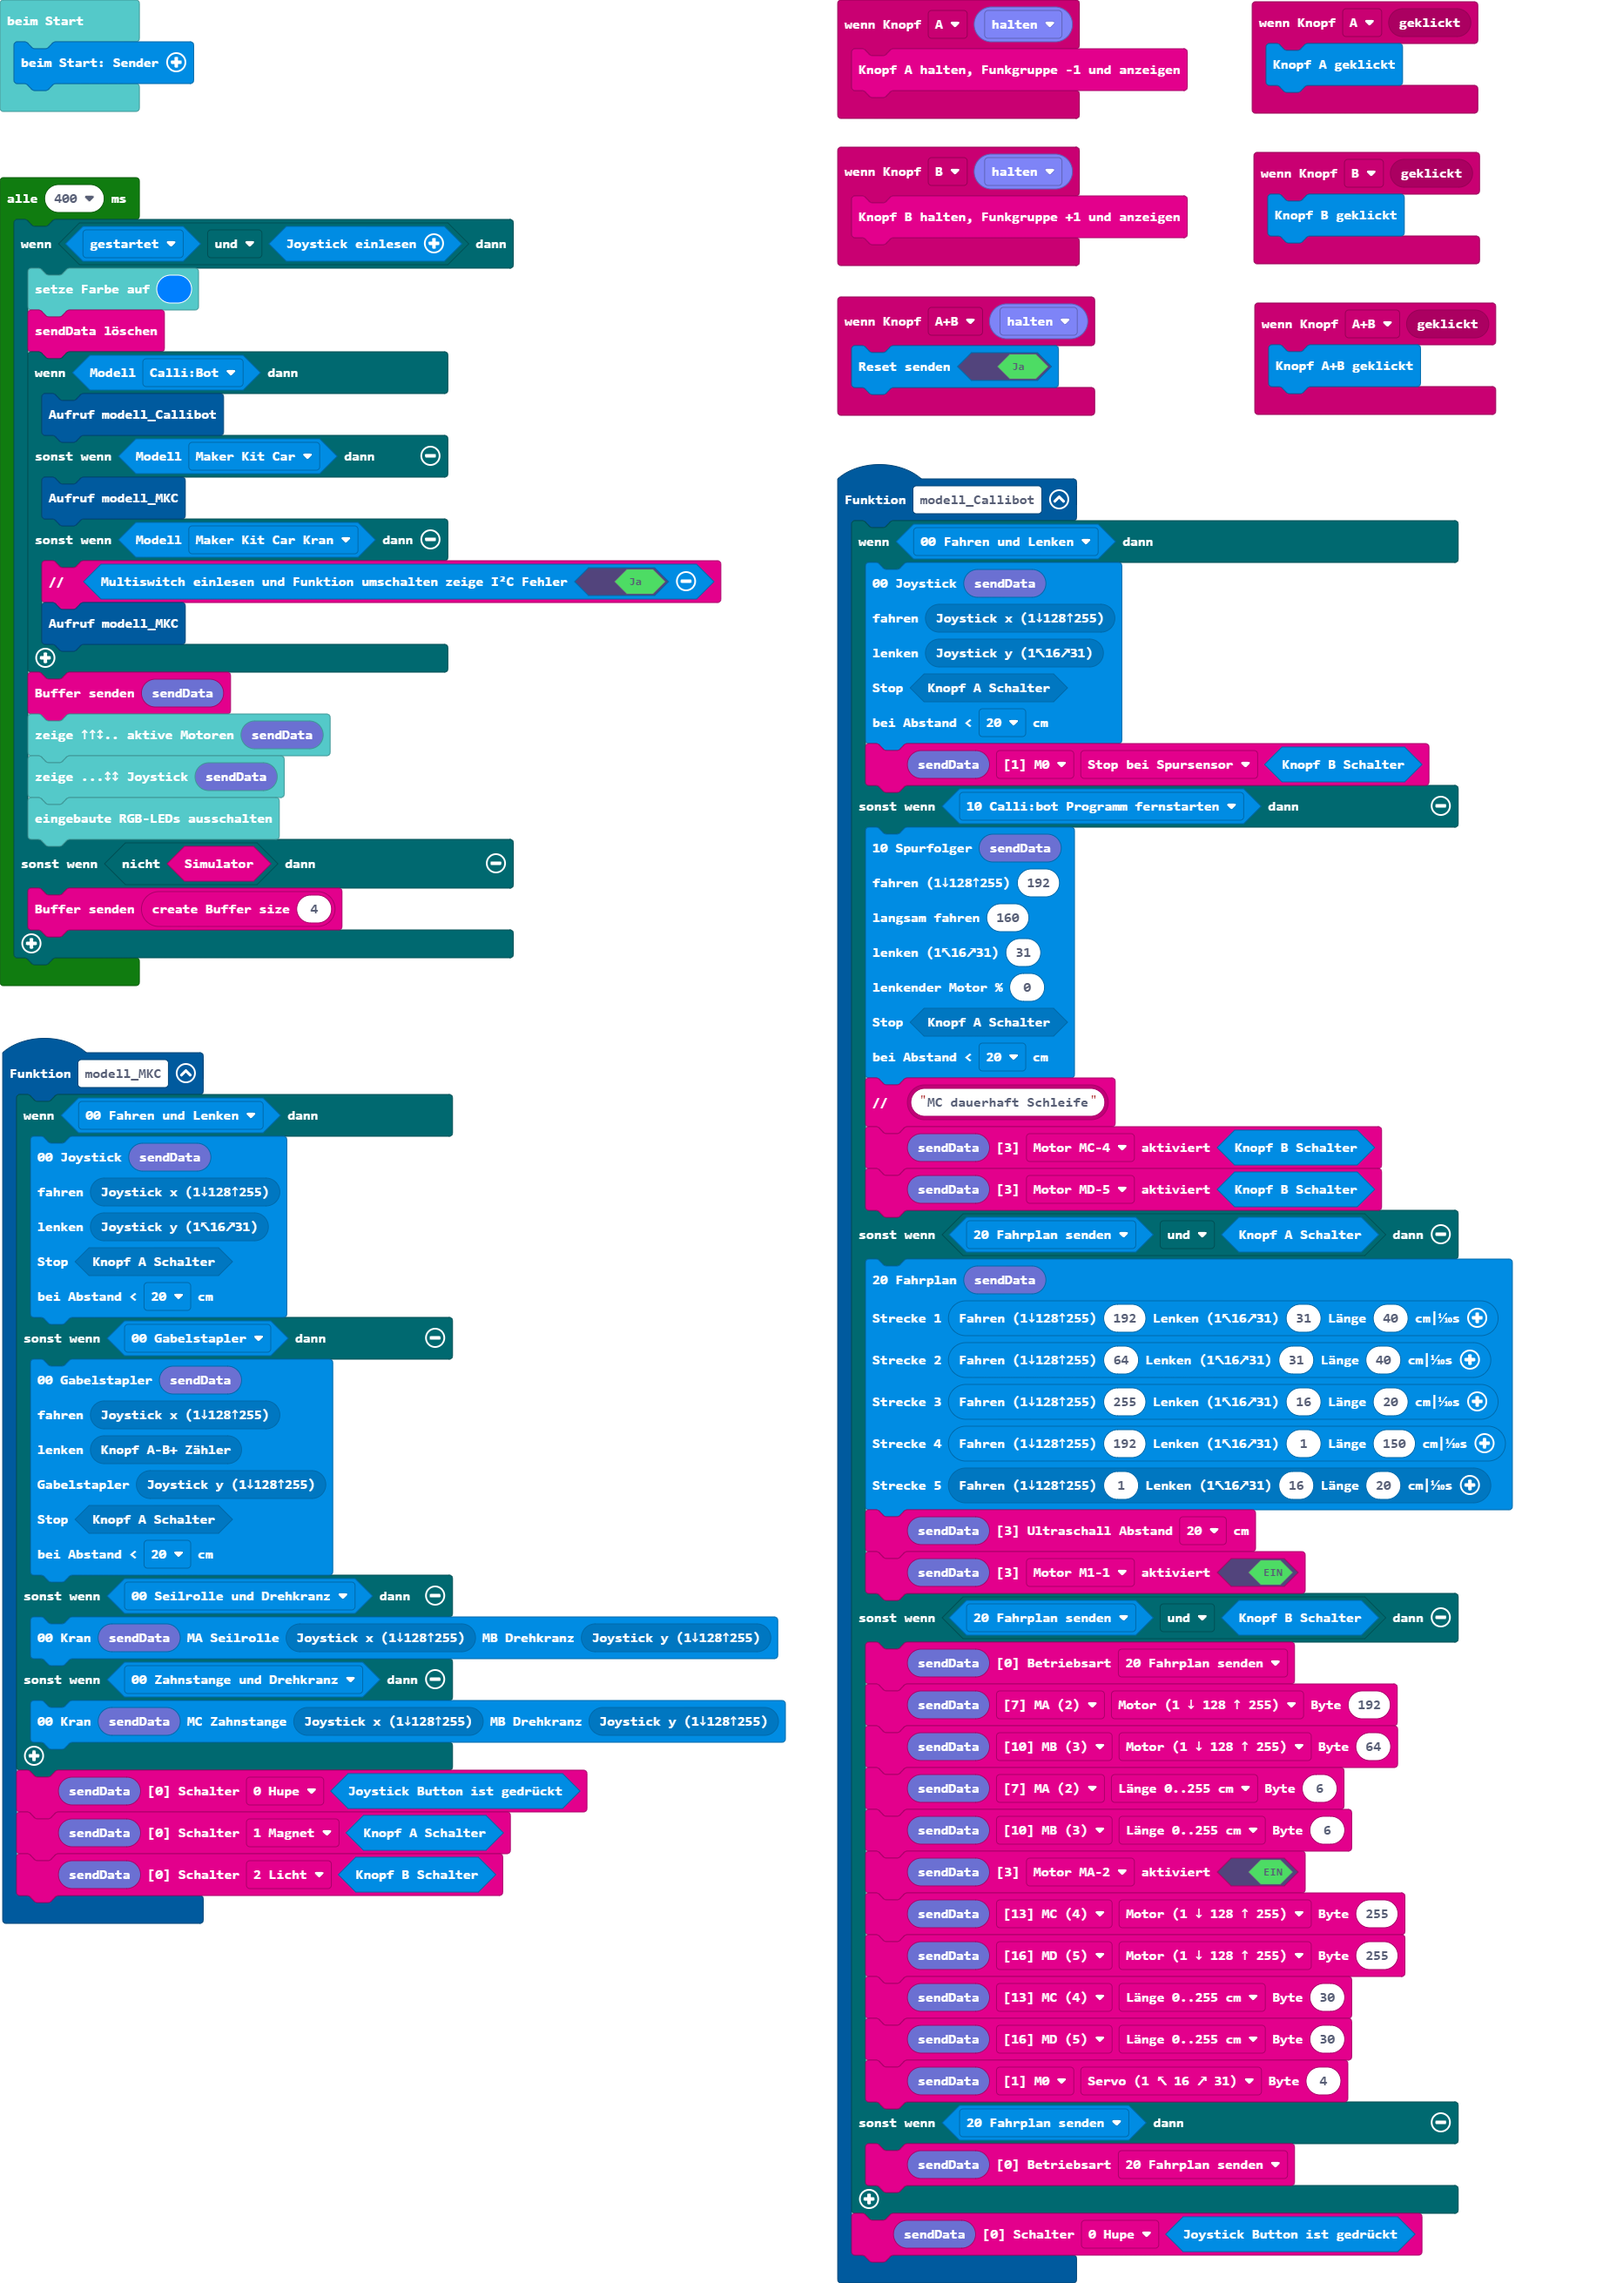
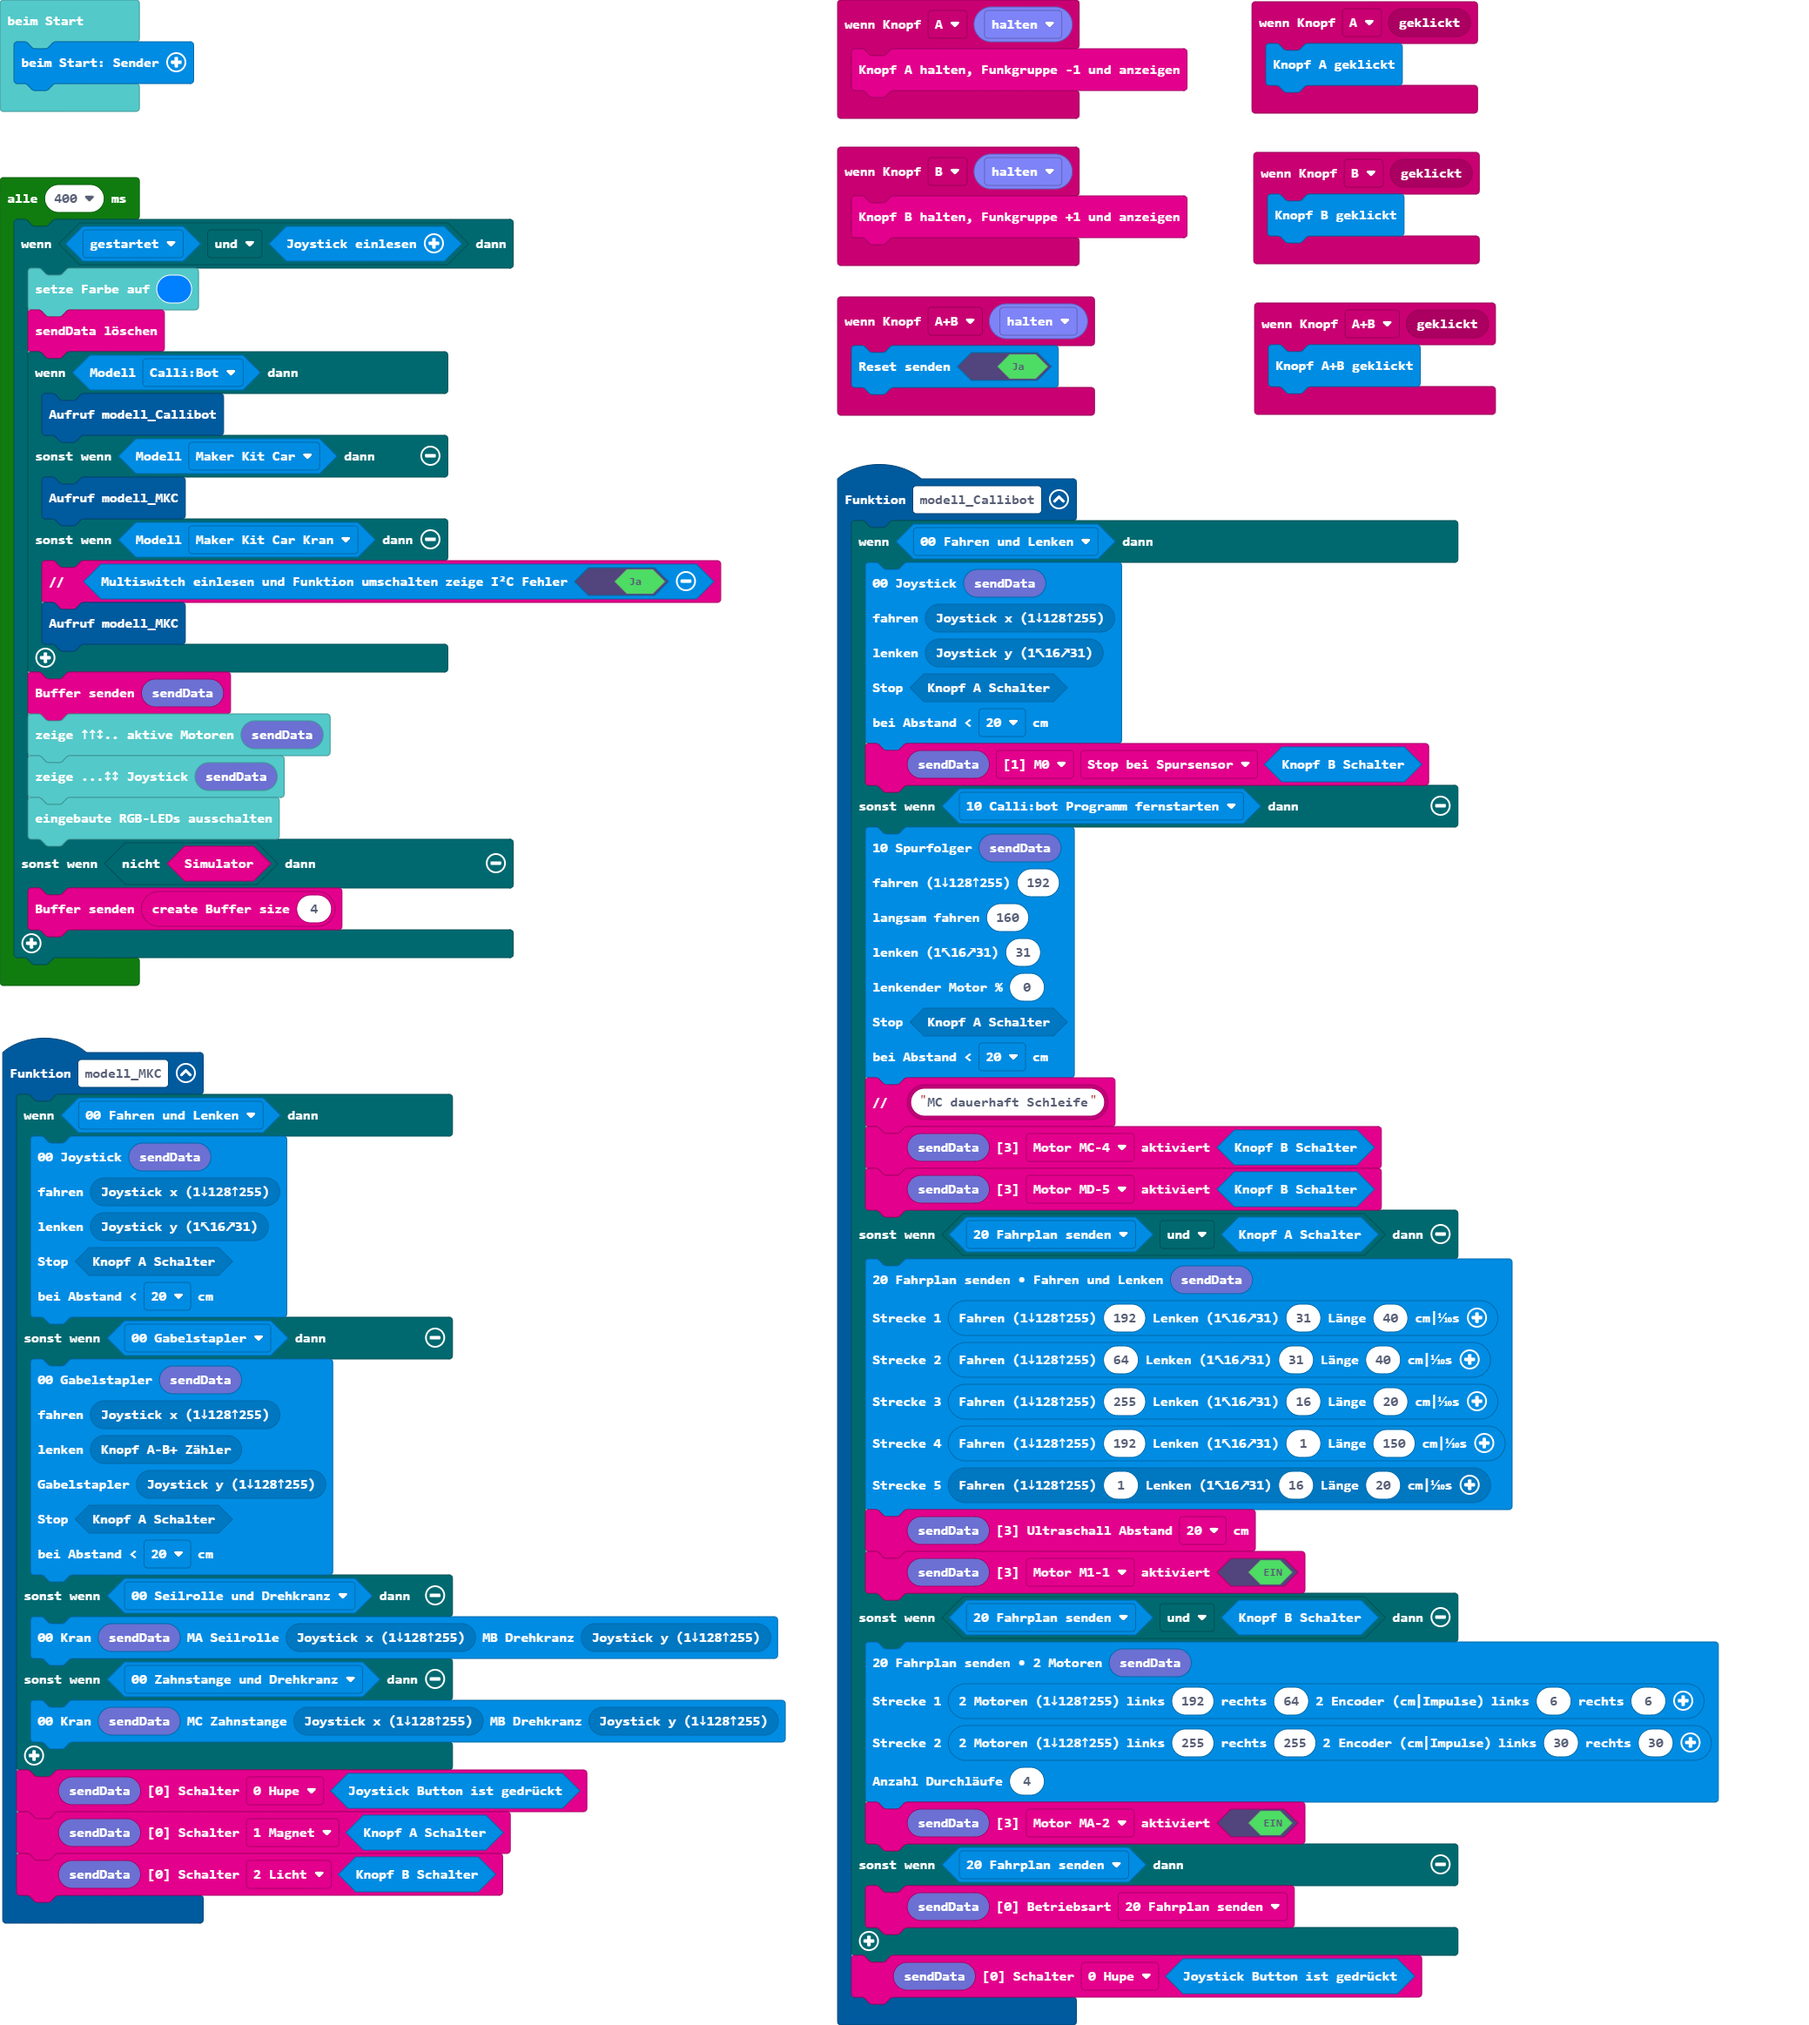
Aktualisiere pxt.json, main.blocks, main.ts

diff --git a/main.ts b/main.ts
@@ -33,17 +33,13 @@ function modell_Callibot () {
         btf.setAbstand(btf.btf_sendBuffer19(), btf.e3Abstand.u2)
         btf.setaktiviert(btf.btf_sendBuffer19(), btf.e3aktiviert.m1, true)
     } else if (sender.isFunktion(sender.eFunktion.m1abcd_fahrplan) && sender.sender_ButtonB_Switch()) {
-        btf.setBetriebsart(btf.btf_sendBuffer19(), btf.e0Betriebsart.p2Fahrplan)
-        btf.setByte(btf.btf_sendBuffer19(), btf.eBufferPointer.ma, btf.eBufferOffset.b0_Motor, 192)
-        btf.setByte(btf.btf_sendBuffer19(), btf.eBufferPointer.mb, btf.eBufferOffset.b0_Motor, 64)
-        btf.setByte(btf.btf_sendBuffer19(), btf.eBufferPointer.ma, btf.eBufferOffset.b2_Fahrstrecke, 6)
-        btf.setByte(btf.btf_sendBuffer19(), btf.eBufferPointer.mb, btf.eBufferOffset.b2_Fahrstrecke, 6)
+        sender.send2x2Motoren(
+        btf.btf_sendBuffer19(),
+        sender.sender_2MotorenEncoder(192, 64, 6, 6),
+        sender.sender_2MotorenEncoder(255, 255, 30, 30),
+        4
+        )
         btf.setaktiviert(btf.btf_sendBuffer19(), btf.e3aktiviert.ma, true)
-        btf.setByte(btf.btf_sendBuffer19(), btf.eBufferPointer.mc, btf.eBufferOffset.b0_Motor, 255)
-        btf.setByte(btf.btf_sendBuffer19(), btf.eBufferPointer.md, btf.eBufferOffset.b0_Motor, 255)
-        btf.setByte(btf.btf_sendBuffer19(), btf.eBufferPointer.mc, btf.eBufferOffset.b2_Fahrstrecke, 30)
-        btf.setByte(btf.btf_sendBuffer19(), btf.eBufferPointer.md, btf.eBufferOffset.b2_Fahrstrecke, 30)
-        btf.setByte(btf.btf_sendBuffer19(), btf.eBufferPointer.m0, btf.eBufferOffset.b1_Servo, 4)
     } else if (sender.isFunktion(sender.eFunktion.m1abcd_fahrplan)) {
         btf.setBetriebsart(btf.btf_sendBuffer19(), btf.e0Betriebsart.p2Fahrplan)
     }
